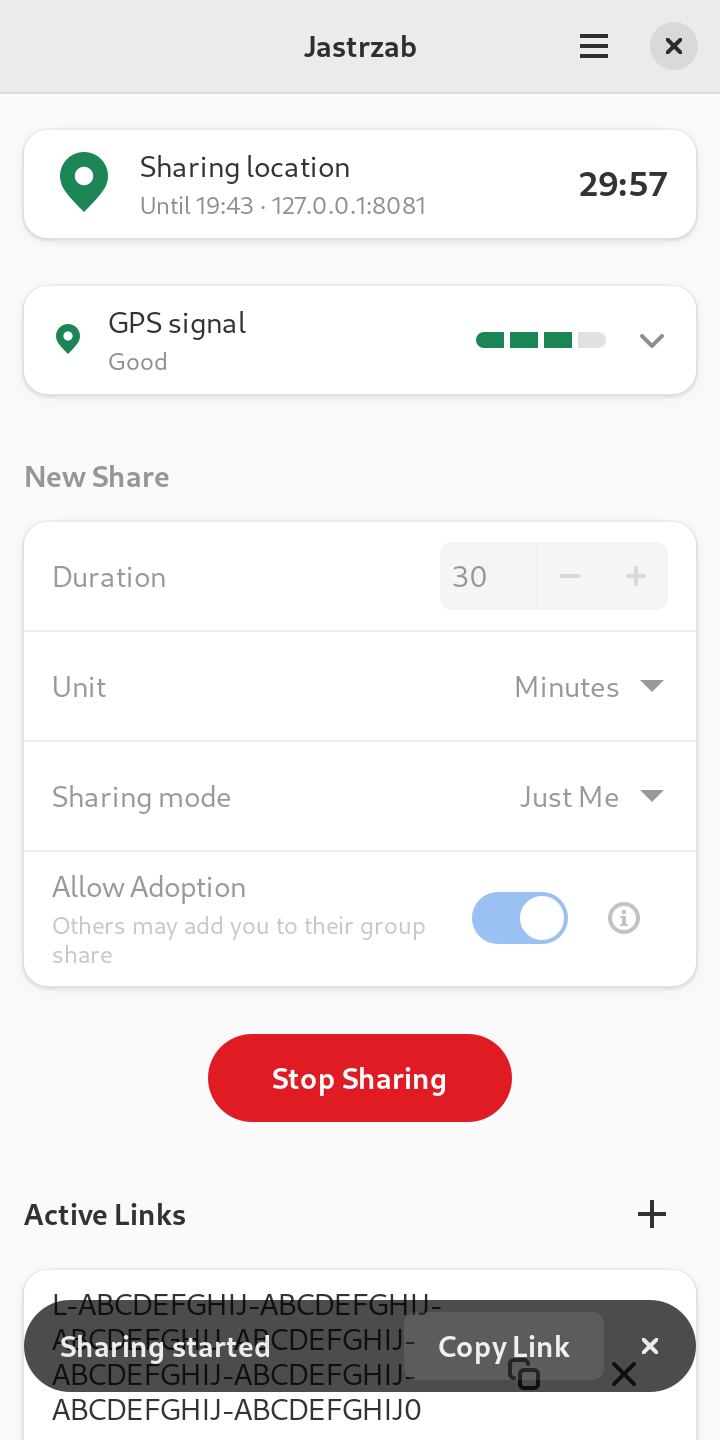
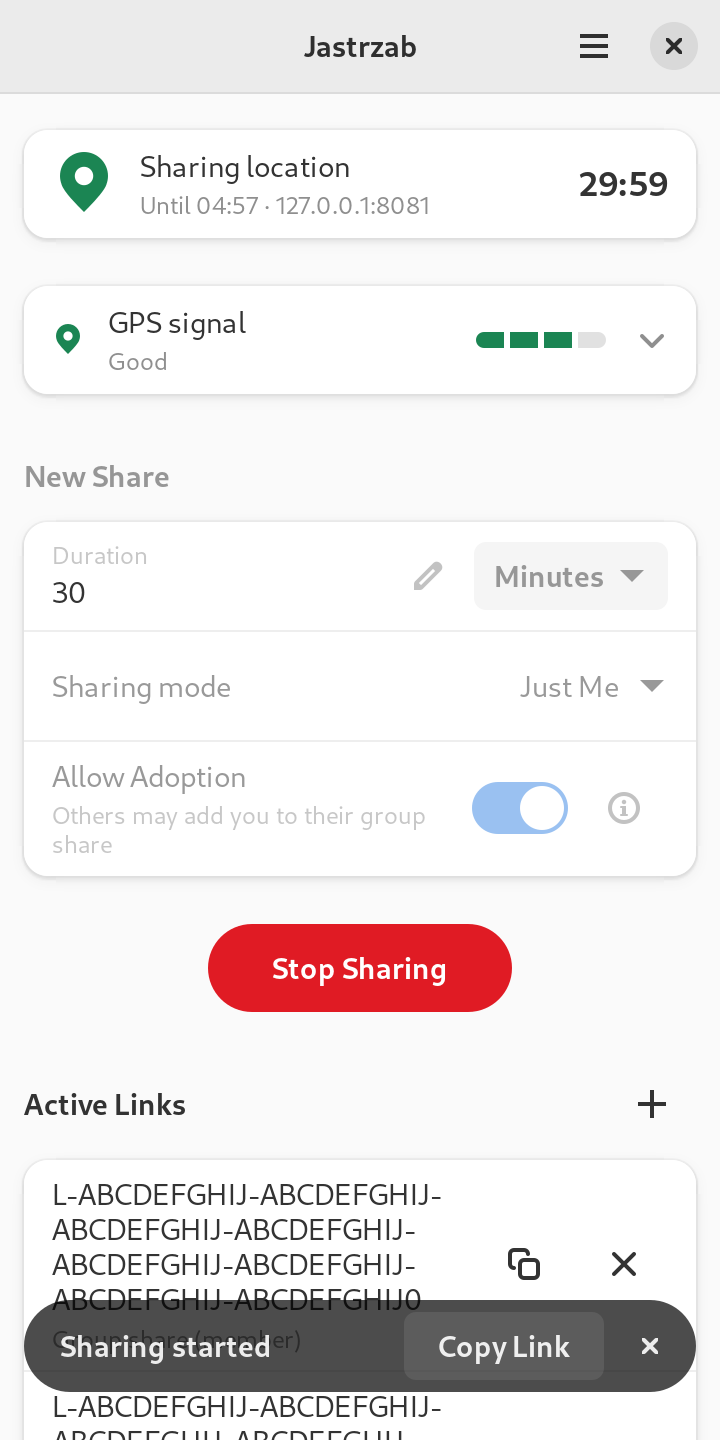
Duration as one row with a unit dropdown, like Hauk
The New Share group had a Duration spin row and a separate Unit combo
row. Now a single entry row: the number (digits only) with the
Minutes/Hours/Days dropdown as its suffix. An entry row rather than a spin
button next to a dropdown, so the number takes whatever width is left and
the form still fits 320 px at 1.5x text (the worstcase scenarios at 320x640,
720x288 and large text keep the window size unchanged).

Anything that is not a positive number is 0, which the engine already
rejects with its "Invalid Duration" dialog. The entry row's pencil icon is
bundled with the other icons. New "duration" scenario; design doc and
README screenshots updated.

Claude-Session: https://claude.ai/code/session_01M2JufFLWbT6TqpVCVKjnwF

diff --git a/app/src/ui/share_form.rs b/app/src/ui/share_form.rs
@@ -1,4 +1,5 @@
-//! The "New Share" form: how long, and whether alone or in a group.
+//! The "New Share" form: how long (a number and a unit on one row, like Hauk's), and whether alone
+//! or in a group.
 
 use adw::prelude::*;
 use jastrzab_core::i18n::tr;
@@ -9,10 +10,20 @@ use super::dialogs;
 use super::widgets::*;
 use crate::controller::FormValues;
 
+/// Four digits are enough for any duration the server accepts (31 days is 44 640 minutes, but
+/// nobody types that: hours and days exist).
+const MAX_DIGITS: usize = 4;
+
+/// The number typed in the duration row; nothing usable counts as 0, which the engine rejects
+/// with its *Invalid Duration* message.
+fn parse_duration(text: &str) -> u32 {
+    text.trim().parse().unwrap_or(0)
+}
+
 pub struct ShareForm {
     group: adw::PreferencesGroup,
-    duration: gtk::SpinButton,
-    unit: adw::ComboRow,
+    duration: adw::EntryRow,
+    unit: gtk::DropDown,
     mode: adw::ComboRow,
     adopt_row: adw::ActionRow,
     adopt: gtk::Switch,
@@ -24,15 +35,23 @@ impl ShareForm {
     pub fn new(settings: &Settings, parent: &adw::ApplicationWindow) -> Self {
         let group = adw::PreferencesGroup::builder().title(tr("New Share")).build();
 
-        let (duration_row, duration) = spin_row(&tr("Duration"), "", 1.0, 9999.0, f64::from(settings.duration));
-        group.add(&duration_row);
-
-        let unit = adw::ComboRow::builder()
-            .title(tr("Unit"))
-            .model(&gtk::StringList::new(&[&tr("Minutes"), &tr("Hours"), &tr("Days")]))
-            .selected(DurationUnit::ALL.iter().position(|u| *u == settings.unit).unwrap_or(0) as u32)
-            .build();
-        group.add(&unit);
+        // An entry row with the unit as its suffix rather than a spin button beside a dropdown:
+        // the number takes whatever width is left, so the row fits a 320 px screen at large text.
+        let duration = adw::EntryRow::builder().title(tr("Duration")).input_purpose(gtk::InputPurpose::Digits).text(settings.duration.to_string()).build();
+        duration.connect_changed(|row| {
+            let text = row.text();
+            let digits: String = text.chars().filter(char::is_ascii_digit).take(MAX_DIGITS).collect();
+            if digits != text {
+                row.set_text(&digits);
+                row.set_position(-1);
+            }
+        });
+        let unit = gtk::DropDown::from_strings(&[&tr("Minutes"), &tr("Hours"), &tr("Days")]);
+        unit.set_selected(DurationUnit::ALL.iter().position(|u| *u == settings.unit).unwrap_or(0) as u32);
+        unit.set_valign(gtk::Align::Center);
+        set_accessible_label(&unit, &tr("Unit"));
+        duration.add_suffix(&unit);
+        group.add(&duration);
 
         let mode =
             adw::ComboRow::builder().title(tr("Sharing mode")).model(&gtk::StringList::new(&[&tr("Just Me"), &tr("Create Group"), &tr("Join Group")])).build();
@@ -88,7 +107,7 @@ impl ShareForm {
 
     pub fn values(&self) -> FormValues {
         FormValues {
-            duration: self.duration.value_as_int().max(1) as u32,
+            duration: parse_duration(&self.duration.text()),
             unit: DurationUnit::ALL.get(self.unit.selected() as usize).copied().unwrap_or_default(),
             mode: Mode::ALL.get(self.mode.selected() as usize).copied().unwrap_or_default(),
             nickname: self.nickname.text().to_string(),
@@ -99,5 +118,24 @@ impl ShareForm {
 
     pub fn render(&self, view: &View) {
         set_sensitive(&self.group, view.form_sensitive);
+    }
+}
+
+#[cfg(test)]
+mod tests {
+    use super::parse_duration;
+
+    #[test]
+    fn the_typed_number_is_used() {
+        assert_eq!(parse_duration("30"), 30);
+        assert_eq!(parse_duration(" 7 "), 7);
+        assert_eq!(parse_duration("9999"), 9999);
+    }
+
+    #[test]
+    fn nothing_usable_is_zero_so_the_engine_asks_for_a_duration() {
+        for text in ["", "  ", "abc", "-5", "1.5", "99999999999999999999"] {
+            assert_eq!(parse_duration(text), 0, "{text:?}");
+        }
     }
 }

diff --git a/scripts/ui-e2e/drive.py b/scripts/ui-e2e/drive.py
@@ -475,6 +475,30 @@ def network():
     end_app(proc)
 
 
+def duration():
+    """The duration is one row: a number and a unit dropdown. Last time's values are shown, the
+    values typed are what a share is started with (and saved for next time)."""
+    proc = start_app(extra_settings='duration = 5\nunit = "hours"\n')
+    entries = find_all("text", "Duration")
+    typed = ""
+    if entries:
+        typed = Atspi.Text.get_text(entries[0], 0, Atspi.Text.get_character_count(entries[0]))
+    check(typed == "5", f"the row shows the last duration: {typed!r}")
+    check(any(n.get_name() == "Unit" for n in find_all("combo box")), "the unit dropdown is in the same group, named Unit")
+    check(has_label("Hours"), "and shows the last unit")
+    check(not any(n.get_name() == "Unit" for n in find_all("label")), "there is no separate Unit row")
+    shot("e2e-duration")
+    click("push button", "Start Sharing")
+    wait_for(lambda: has_label("Sharing location"), 20, "Sharing location")
+    check(has_label("Sharing location"), "a share starts from the row's values")
+    click("push button", "Stop Sharing")
+    click_in_dialog("Stop Sharing")
+    wait_for(lambda: has_label("Not sharing"), 15, "Not sharing")
+    end_app(proc)
+    saved = open(f"{HOME}/.config/{APP_ID}/settings.toml").read()
+    check("duration = 5" in saved and 'unit = "hours"' in saved, "the values are saved for next time")
+
+
 def icons():
     """The host's icon theme does not exist (as in a Flatpak whose host uses a theme the runtime
     lacks): the theme has none of the app's own icons, and the bundled ones fill in."""
@@ -622,7 +646,7 @@ def group():
     end_app(proc)
 
 
-SCENARIOS = {"solo": solo, "prefs": prefs, "group": group, "worstcase": worstcase, "services": services, "geoclue": geoclue, "icons": icons, "network": network, "logging": logging, "crash": crash, "resume": resume}
+SCENARIOS = {"solo": solo, "prefs": prefs, "group": group, "worstcase": worstcase, "services": services, "geoclue": geoclue, "icons": icons, "duration": duration, "network": network, "logging": logging, "crash": crash, "resume": resume}
 
 if __name__ == "__main__":
     name = sys.argv[1] if len(sys.argv) > 1 else "solo"

diff --git a/app/src/ui/icons.rs b/app/src/ui/icons.rs
@@ -7,8 +7,10 @@
 
 const RESOURCE_PATH: &str = "/io/github/gdr_aislop/jastrzab/icons";
 
-/// Every icon the code names. `tests` keeps this, the SVGs and the sources in step.
-const NAMES: [&str; 12] = [
+/// Every icon the code names, and the ones libadwaita's own widgets ask the theme for. `tests` keeps this, the SVGs and the sources in step.
+const NAMES: [&str; 13] = [
+    // Not named in our code: the edit indicator of every `AdwEntryRow`.
+    "document-edit-symbolic",
     "edit-copy-symbolic",
     "find-location-symbolic",
     "go-next-symbolic",

diff --git a/scripts/ui-e2e/README.md b/scripts/ui-e2e/README.md
@@ -15,6 +15,7 @@ What they check, against a **real Hauk backend**, the **real GeoClue 2.7.0**, a 
 | `prefs` | Open Main Menu and Preferences; every control has an accessible name; the keyring password round-trips |
 | `worstcase` | A hostile server (25 links with 80-character IDs, a 1000-character message): the window never changes size. Run with `EXPECT_SIZE` on the `phone`, `landscape`, `landscape-short` (720×288) and `narrow` (320×640) profiles to show the minimum size fits |
 | `services` | The notification is resident, has the Copy and Stop actions, is replaced (not re-sent) as the signal changes, its Stop action ends the share and withdraws it; a logind sleep inhibitor is held while sharing and released after |
+| `duration` | the duration is one row (a number and a unit dropdown named *Unit*), shows the last values, starts a share from them and saves them |
 | `icons` | an icon theme the system lacks (as in a Flatpak whose host uses a theme the runtime does not have): the log shows the theme lacks some of the app's icons, and none is still missing thanks to the bundled ones |
 | `network` | (a fake NetworkManager) the app listens to GLib's NetworkManager backend; the network going away shows at once and pauses posting; after a 20 s grace period the GPS goes off and the signal row says *Paused*, while the phone is still kept awake; a blip shorter than that leaves the GPS alone; when the network returns location restarts and posting resumes |
 | `geoclue` | (`WITH_GEOCLUE=1`) the app gets a fix from the real GeoClue and the position reaches the server |

diff --git a/docs/phosh-gui-design.md b/docs/phosh-gui-design.md
@@ -144,8 +144,7 @@ A single page replaces the Android layout's logo, tagline and repository link. T
 - Status row: icon, **Not sharing**, subtitle "Choose how long to share, then start".
 - **GPS signal** row: "Not checking" with a **Check** button (§4.4).
 - **New Share** group:
-  - *Duration*: a spin button, default 30;
-  - *Unit*: a combo (Minutes, Hours, Days);
+  - *Duration*: one entry row, as in Hauk: a number (digits only, default 30) with a unit dropdown (Minutes, Hours, Days) as its suffix. An entry row rather than a spin button beside a dropdown, so the number takes the width that is left and the row fits 320 px at large text;
   - *Sharing mode*: a combo (Just Me, Create Group, Join Group);
   - *Allow Adoption*: a switch with a help button, shown only for Just Me.
 - **Start Sharing**: a `.pill` `.suggested-action` button, the only suggested-style button on the view.
@@ -312,7 +311,7 @@ The Android app shows an ongoing notification whose title mirrors the status and
 |---|---|
 | Toolbar with gear | Header bar with Main Menu |
 | Logo, tagline, repo link | Removed from the page; About window |
-| Duration field + unit spinner | Duration spin row + Unit combo row |
+| Duration field + unit spinner | One Duration entry row with the unit dropdown as its suffix |
 | Mode spinner | Sharing mode combo row |
 | "Allow adoption" checkbox + "(What's this?)" link | Switch row + help button |
 | Status label (6 colours) | Status row for the session (§4.3) and a separate GPS signal row for position quality (§4.4) |

diff --git a/app/data/ui-icons/README.md b/app/data/ui-icons/README.md
@@ -1,7 +1,7 @@
 # Bundled UI icons
 
 The symbolic icons the app names (`location-services-*`, `find-location`, `network-*`, `go-next`,
-`edit-copy`, `process-stop`, `open-menu`, `list-add`, `help-about`, `window-close`), compiled into the
+`edit-copy`, `document-edit` (the pencil of every entry row, named by libadwaita), `process-stop`, `open-menu`, `list-add`, `help-about`, `window-close`), compiled into the
 binary (`../jastrzab.gresource.xml`) and added to the icon search path at start-up. Without them
 the app shows "missing image" icons wherever the system's icon theme lacks them, which is what
 happens in a Flatpak whose host uses a theme the sandbox does not have.
